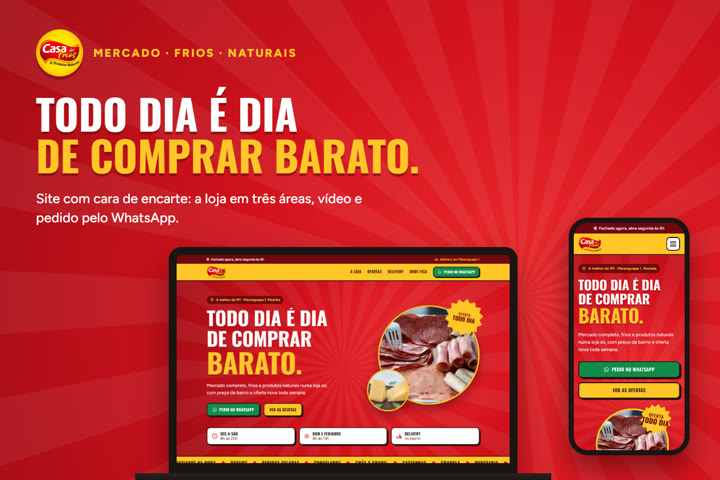
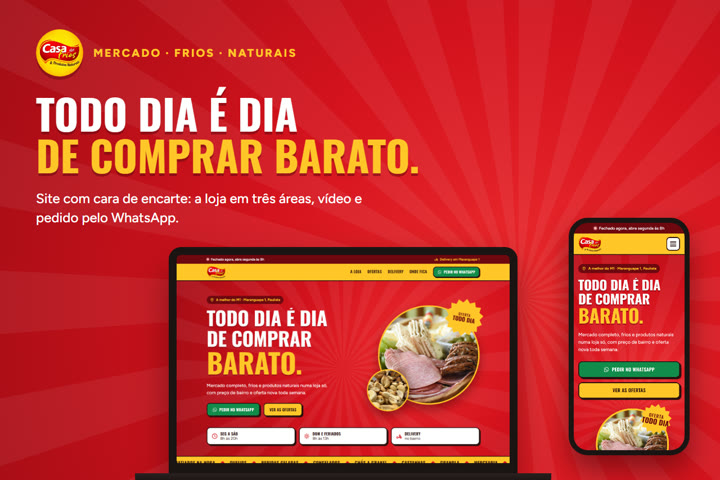
Cartão da Casa dos Frios com as fotos novas do topo do site

Changed region(s): [[0.4889, 0.625, 0.6722, 0.875], [0.825, 0.8438, 0.9472, 0.9375], [0.2444, 0.9375, 0.275, 0.9688]]

diff --git a/index.html b/index.html
@@ -382,7 +382,7 @@
         </div>
         <div class="project-card reveal">
           <div class="project-image">
-            <img src="assets/images/casa-dos-frios-1280.jpg?v=3" srcset="assets/images/casa-dos-frios-720.jpg?v=3 720w, assets/images/casa-dos-frios-1280.jpg?v=3 1280w" sizes="(max-width: 640px) 90vw, 360px" alt="Site Casa dos Frios &amp; Produtos Naturais no computador e no celular" loading="lazy" onerror="this.onerror=null;this.src='assets/images/placeholder.svg';">
+            <img src="assets/images/casa-dos-frios-1280.jpg?v=4" srcset="assets/images/casa-dos-frios-720.jpg?v=4 720w, assets/images/casa-dos-frios-1280.jpg?v=4 1280w" sizes="(max-width: 640px) 90vw, 360px" alt="Site Casa dos Frios &amp; Produtos Naturais no computador e no celular" loading="lazy" onerror="this.onerror=null;this.src='assets/images/placeholder.svg';">
             <div class="project-image-overlay"></div>
           </div>
           <div class="project-content">
